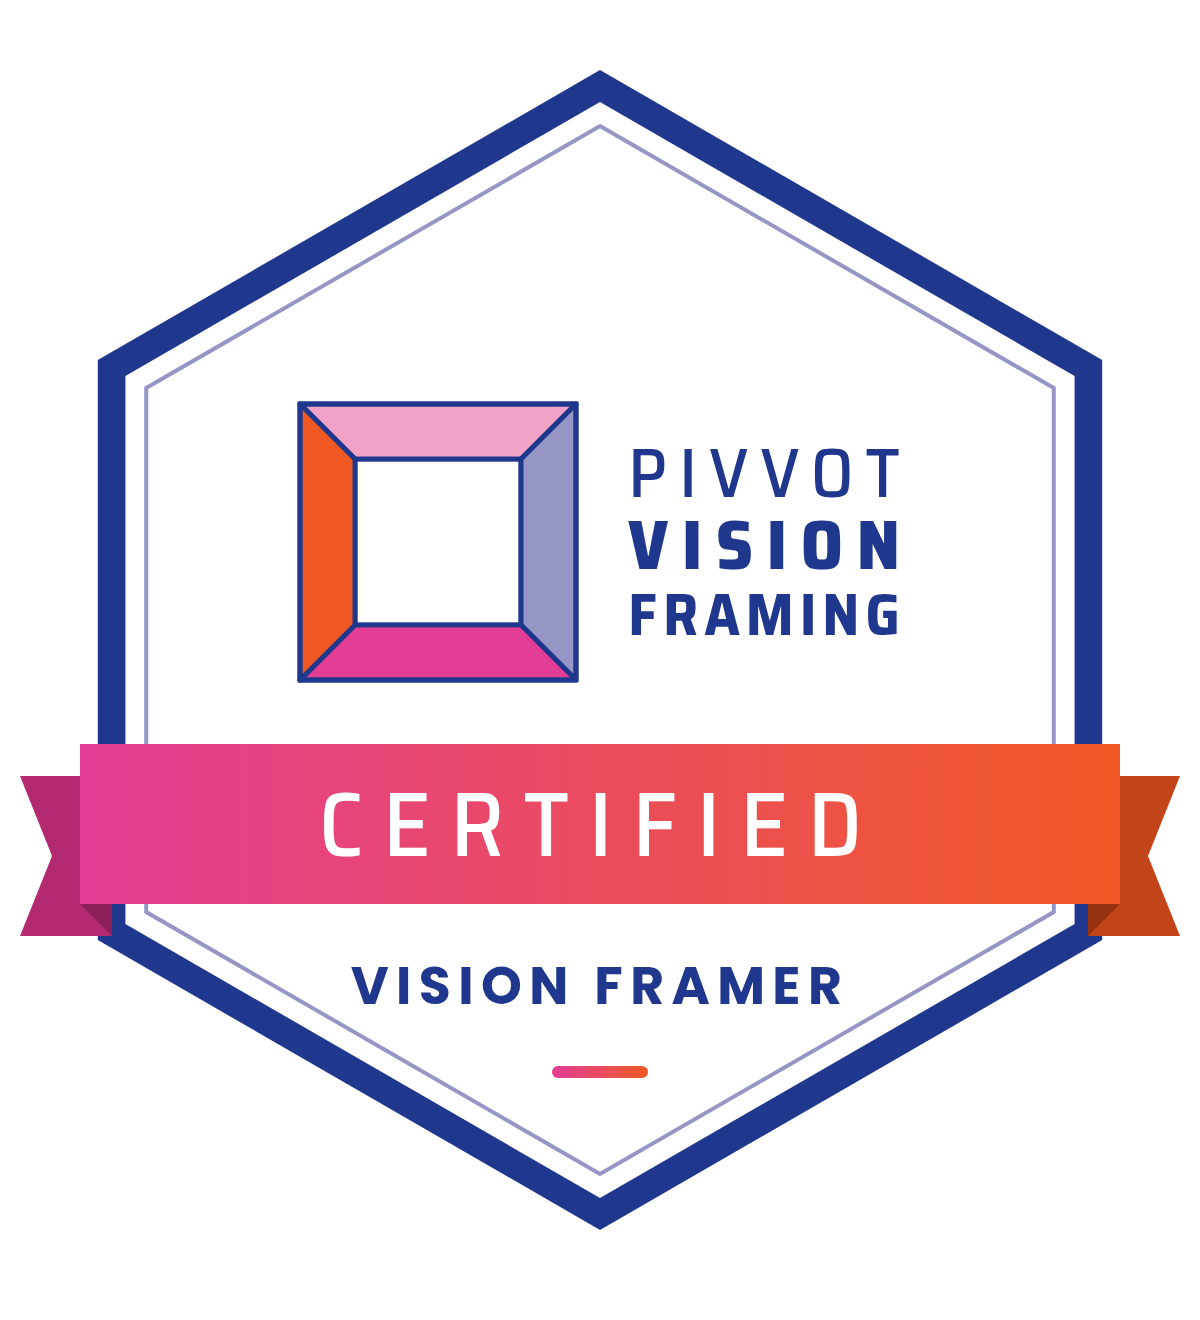
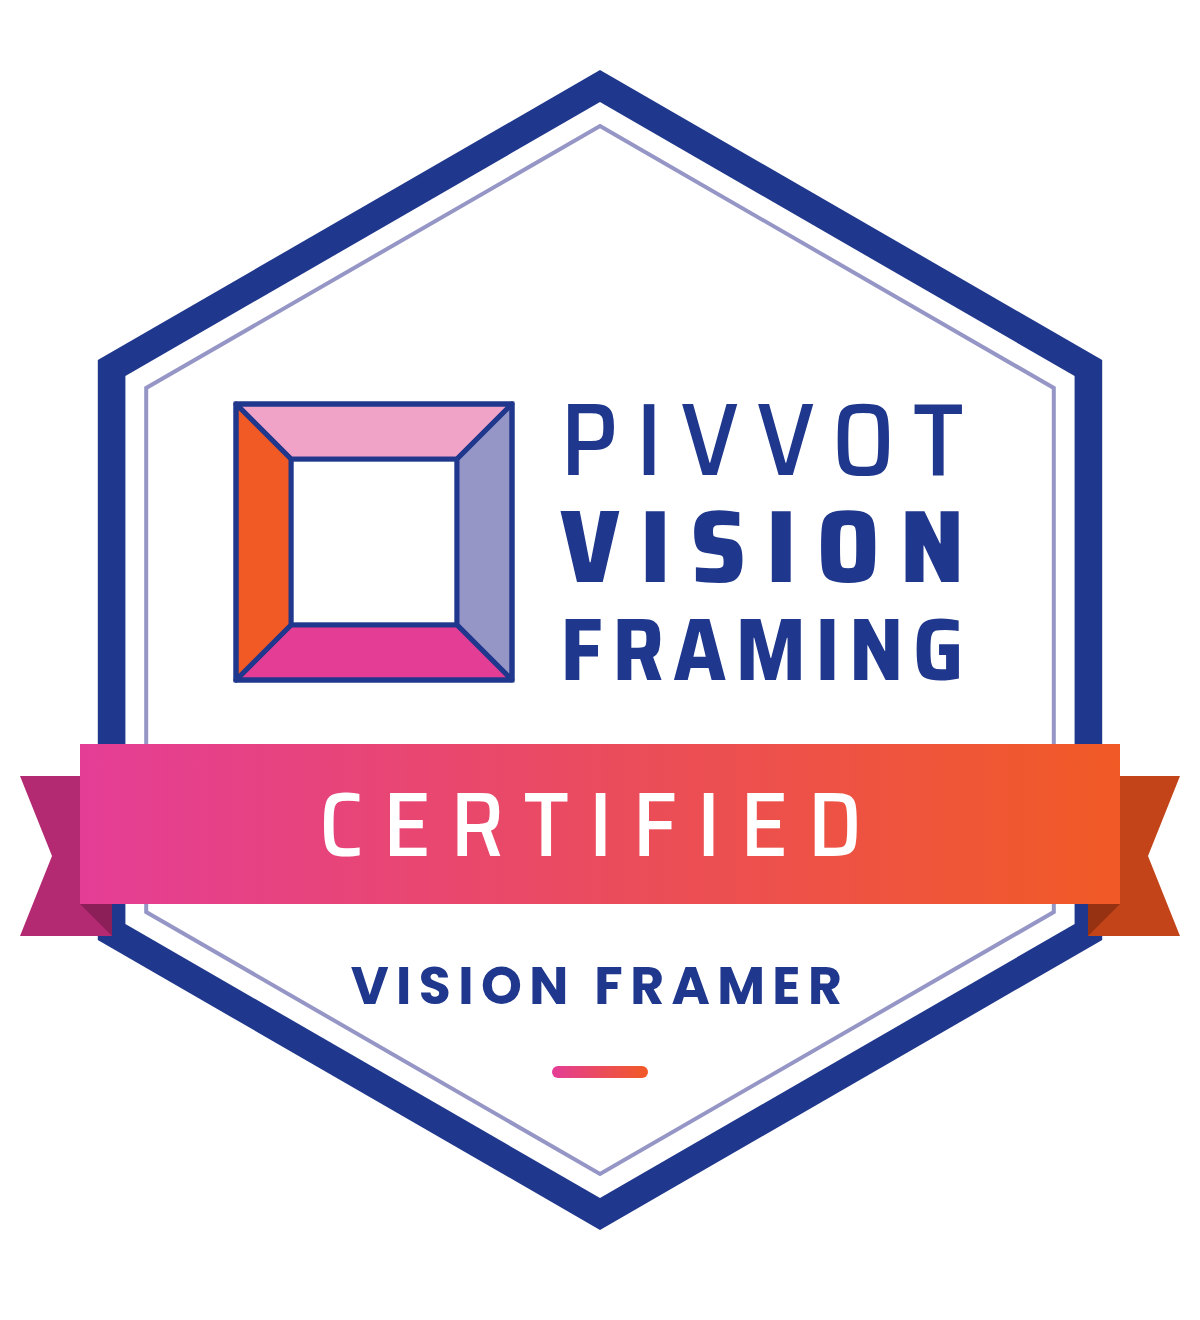
Badges: issuer-line hexagon back, wordmark at frame height in H2; drop H3
Claude-Session: https://claude.ai/code/session_01BSFopuXw4RjBGF4kx6dqA9

Changed region(s): [[0.37, 0.2795, 0.8017, 0.528], [0.185, 0.2795, 0.3083, 0.528]]

diff --git a/assets/badges/src/build-badges.js b/assets/badges/src/build-badges.js
@@ -171,8 +171,9 @@ function hexBadge(mark, p, { layout = 'label' } = {}) {
     centre = blue ? frameBlue(cx - s / 2, y, s, p + 'm') : frame(cx - s / 2, y, s);
   } else if (layout === 'side') {
     // Wordmark and mark side by side in the straight zone, centred as one group.
-    const s = 138, gap = 26, scale = 0.62, w = 136, top = 208;
-    const total = s + gap + w, x0 = cx - total / 2, y = top - 6;
+    // The wordmark is scaled so its block is exactly the frame's height.
+    const s = 138, gap = 24, scale = s / wordmarkHeight(1), w = Math.round(136 * scale / 0.62);
+    const total = s + gap + w, x0 = cx - total / 2, y = 202;
     centre = `${blue ? frameBlue(x0, y, s, p + 'm') : frame(x0, y, s)}
     ${wordmark(x0 + s + gap + w / 2, y + (s - wordmarkHeight(scale)) / 2, w, { fill: ink, scale })}`;
   } else if (layout === 'stacked') {
@@ -375,9 +376,8 @@ function processFrame(p = 'f') {
 const out = process.argv[2] || path.join(__dirname, '..');
 fs.mkdirSync(out, { recursive: true });
 const files = {
-  'hex-1-frame-only.svg': hexBadge('frame', 'h1', { layout: 'plain' }),
+  'hex-1-issuer-line.svg': hexBadge('frame', 'h1', { layout: 'label' }),
   'hex-2-side-by-side.svg': hexBadge('frame', 'h2', { layout: 'side' }),
-  'hex-3-stacked.svg': hexBadge('frame', 'h3', { layout: 'stacked' }),
   'lockup-1-frame-only.svg': lockupBadge('frame', 'l1', { layout: 'plain' }),
   'lockup-2-side-by-side.svg': lockupBadge('frame', 'l2', { layout: 'side' }),
   'lockup-3-issuer-line.svg': lockupBadge('frame', 'l3', { layout: 'issuer' }),

diff --git a/assets/badges/README.md b/assets/badges/README.md
@@ -11,9 +11,9 @@ correctly as an `<img>` anywhere) and a transparent PNG at 2×.
 
 | | Hexagon | Lockup |
 |---|---|---|
-| Frame only | `hex-1-frame-only` | `lockup-1-frame-only` |
-| Frame beside the stacked wordmark | `hex-2-side-by-side` | `lockup-2-side-by-side` |
-| Wordmark over the frame / issuer line | `hex-3-stacked` | `lockup-3-issuer-line` |
+| Issuer line over the frame | `hex-1-issuer-line` | `lockup-3-issuer-line` |
+| Frame beside the stacked wordmark (same height) | `hex-2-side-by-side` | `lockup-2-side-by-side` |
+| Frame only | — | `lockup-1-frame-only` |
 
 The hexagon has a swallow-tail ribbon with folds, a bottom line measured to
 fit the narrowing lower half, and a short gradient rule anchoring the
